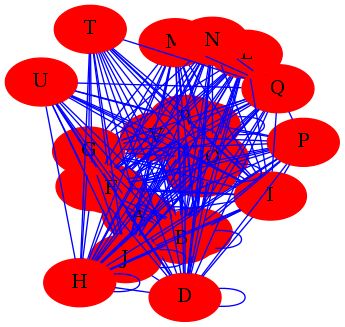
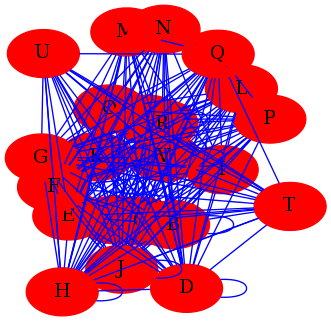
test

diff --git a/ironhack/data_analysis/scores/network_generator.py b/ironhack/data_analysis/scores/network_generator.py
@@ -4,10 +4,10 @@ import string
 import xlrd
 
 
-book = xlrd.open_workbook("phase3-phase1.xls")
+book = xlrd.open_workbook("phase3-phase2.xls")
 print "The number of worksheets is", book.nsheets
 print "Worksheet name(s):", book.sheet_names()
-sh = book.sheet_by_index(1)
+sh = book.sheet_by_index(0)
 #sh0 = book.sheet_by_index(0)
 #sh3 = book.sheet_by_index(3)
 print sh.name, sh.nrows, sh.ncols
@@ -24,7 +24,7 @@ print array
 
 dt = [('len', float)]
 
-A = np.array(array)/5
+A = np.array(array)
 #A = np.array([(0.3, 0, 0.3, 0.4, 0.7),
 #               (0.3, 0.6,  0, 0.9, 0.2),
 #               (0.4, 0.9, 0.4, 0, 0.1),
@@ -42,4 +42,4 @@ G = nx.drawing.nx_agraph.to_agraph(G)
 G.node_attr.update(color="red", style="filled")
 G.edge_attr.update(color="blue", width="2.0")
 
-G.draw('output3-1total.png', format='png', prog='neato')
+G.draw('output3-2Tech.png', format='png', prog='neato')
